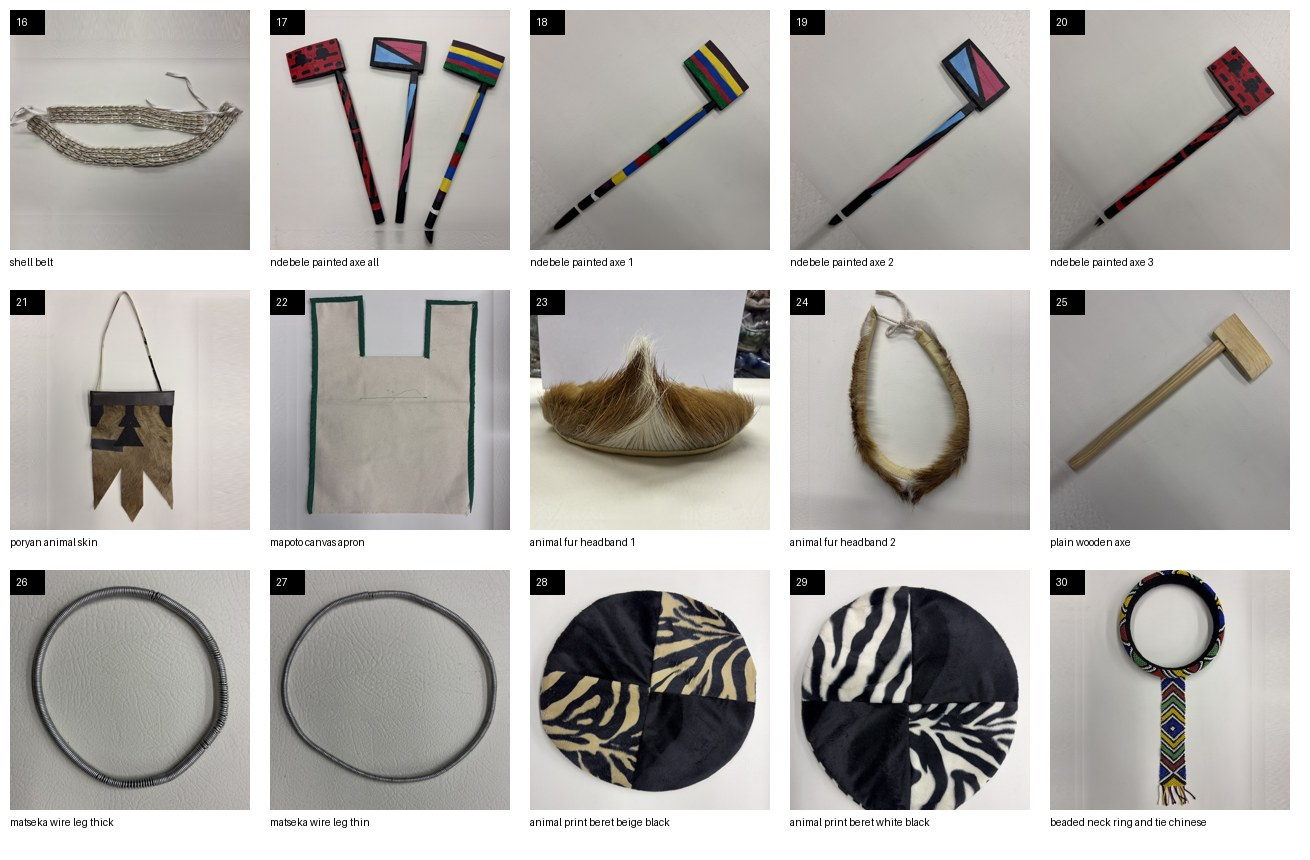
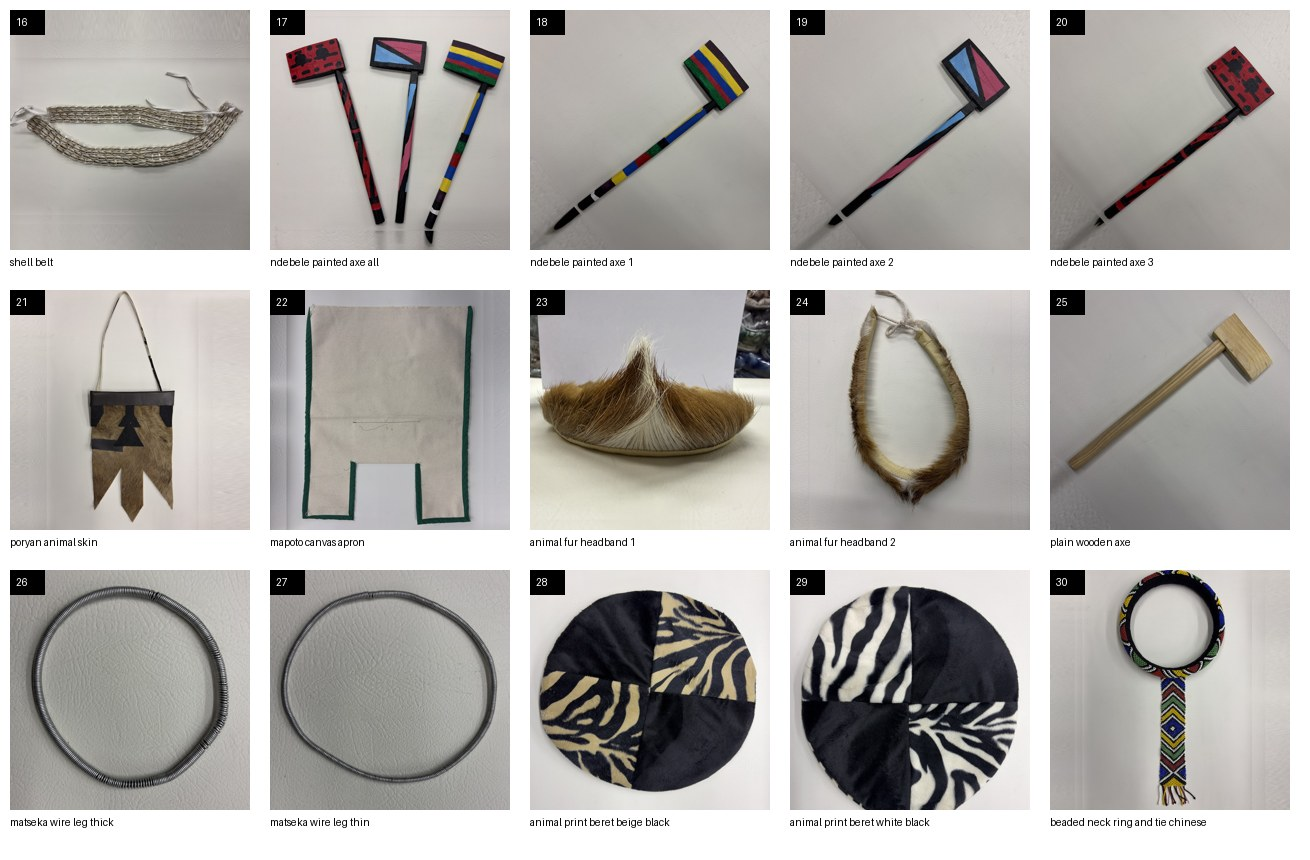
Axe colour names, flipped Mapoto photo, shell belt 2-piece sizes (waiting for upload)
Claude-Session: https://claude.ai/code/session_01FrAdmZhbnvV2Pi8Ea2YxmY

Changed region(s): [[0.1832, 0.3326, 0.3969, 0.6349]]

diff --git a/marketing/website/patch-new-products.py b/marketing/website/patch-new-products.py
@@ -61,10 +61,10 @@ NEW += [
   ti("TRD-012", "Beaded Necklace — Large", "", "unit", [("Standard", 150, ph("beaded_necklace_large"))]),
   ti("TRD-013", "Mini Wooden Knob Stick", "40cm", "unit", [("Standard", 30, ph("mini_wooden_knob"))]),
   ti("TRD-014", "Mini Wooden Spear", "40cm", "unit", [("Standard", 30, ph("mini_wooden_spear"))]),
-  ti("TRD-015", "Shell Belt Set", "", "set", [("Standard", 100, ph("shell_belt"))]),
+  ti("TRD-015", "Shell Belt Set", "65cm & 35cm", "set", [("Standard", 100, ph("shell_belt"))], "2-piece set: one 65cm belt and one 35cm belt."),
   ti("TRD-016", "Ndebele Painted Wooden Axe", "40cm", "unit", [
-      ("Stripes", 100, ph("ndebele_painted_axe_1") + AXE), ("Blue & Pink", 100, ph("ndebele_painted_axe_2") + AXE),
-      ("Red", 100, ph("ndebele_painted_axe_3") + AXE)]),
+      ("Ndebele Stripe", 100, ph("ndebele_painted_axe_1") + AXE), ("Blue & Pink", 100, ph("ndebele_painted_axe_2") + AXE),
+      ("Black & Red", 100, ph("ndebele_painted_axe_3") + AXE)]),
   ti("TRD-017", "Poryan Animal Skin", "", "unit", [("Standard", 200, ph("poryan_animal_skin"))]),
   ti("TRD-018", "Mapoto Canvas Apron", "", "unit",
      [(f"Size {z}", 55, ph("mapoto_canvas_apron")) for z in ("14", "14½", "15", "15½", "16", "16½", "17", "17½", "18")]),

diff --git a/marketing/website/patch-catalogue-edits.py b/marketing/website/patch-catalogue-edits.py
@@ -54,6 +54,10 @@ def setp(pid, **kw):
 
 for v in by["TEK-004"]["variants"]: v["price"] = 60                    # White Ladies Canvas Tekkies
 setp("WIR-004", name="711 Copper Wire")
+if "TRD-016" in by:                                                     # Ndebele painted axe colour names
+    for v in by["TRD-016"]["variants"]:
+        v["label"] = {"Stripes": "Ndebele Stripe", "Red": "Black & Red"}.get(v["label"], v["label"])
+if "TRD-015" in by: setp("TRD-015", size="65cm & 35cm", desc="2-piece set: one 65cm belt and one 35cm belt.")
 setp("WHS-001", name="Plastic 2 Pipe Ndebele Whistle", desc="2-pipe plastic whistle")
 setp("WHS-006", size="9cm")                                            # 3 Pipe Metal Whistle
 setp("WHS-005", size="12cm")                                           # 2 Pipe Metal Whistle

diff --git a/marketing/website/UPLOAD-NEXT.md b/marketing/website/UPLOAD-NEXT.md
@@ -1,6 +1,9 @@
 # Upload status
 
-Nothing waiting. Last upload: 20 Oct 2026 (deploy 6ad764fa39bc0f176a6d826a): Traditional Items category (33 products),
+**Waiting for "upload"**: painted axe colours renamed (Ndebele Stripe / Blue & Pink / Black & Red), Mapoto apron photo
+flipped (same file name, new picture), Shell Belt Set described as a 2-piece set (65cm & 35cm).
+
+Last upload: 20 Oct 2026 (deploy 6ad764fa39bc0f176a6d826a): Traditional Items category (33 products),
 animal print berets, Colibri towels in 3 colours, bangles single/6-pack, whistle sizes swapped, Plain Berets with ZCC first.
 Before that: 20 Oct 2026 — 17 new products, 7 replacement photos, Beverly removed, catalogue edits
 (splits, names, sizes, photo order). See README.md for how to rebuild and upload; the patch order is in the README / below:
